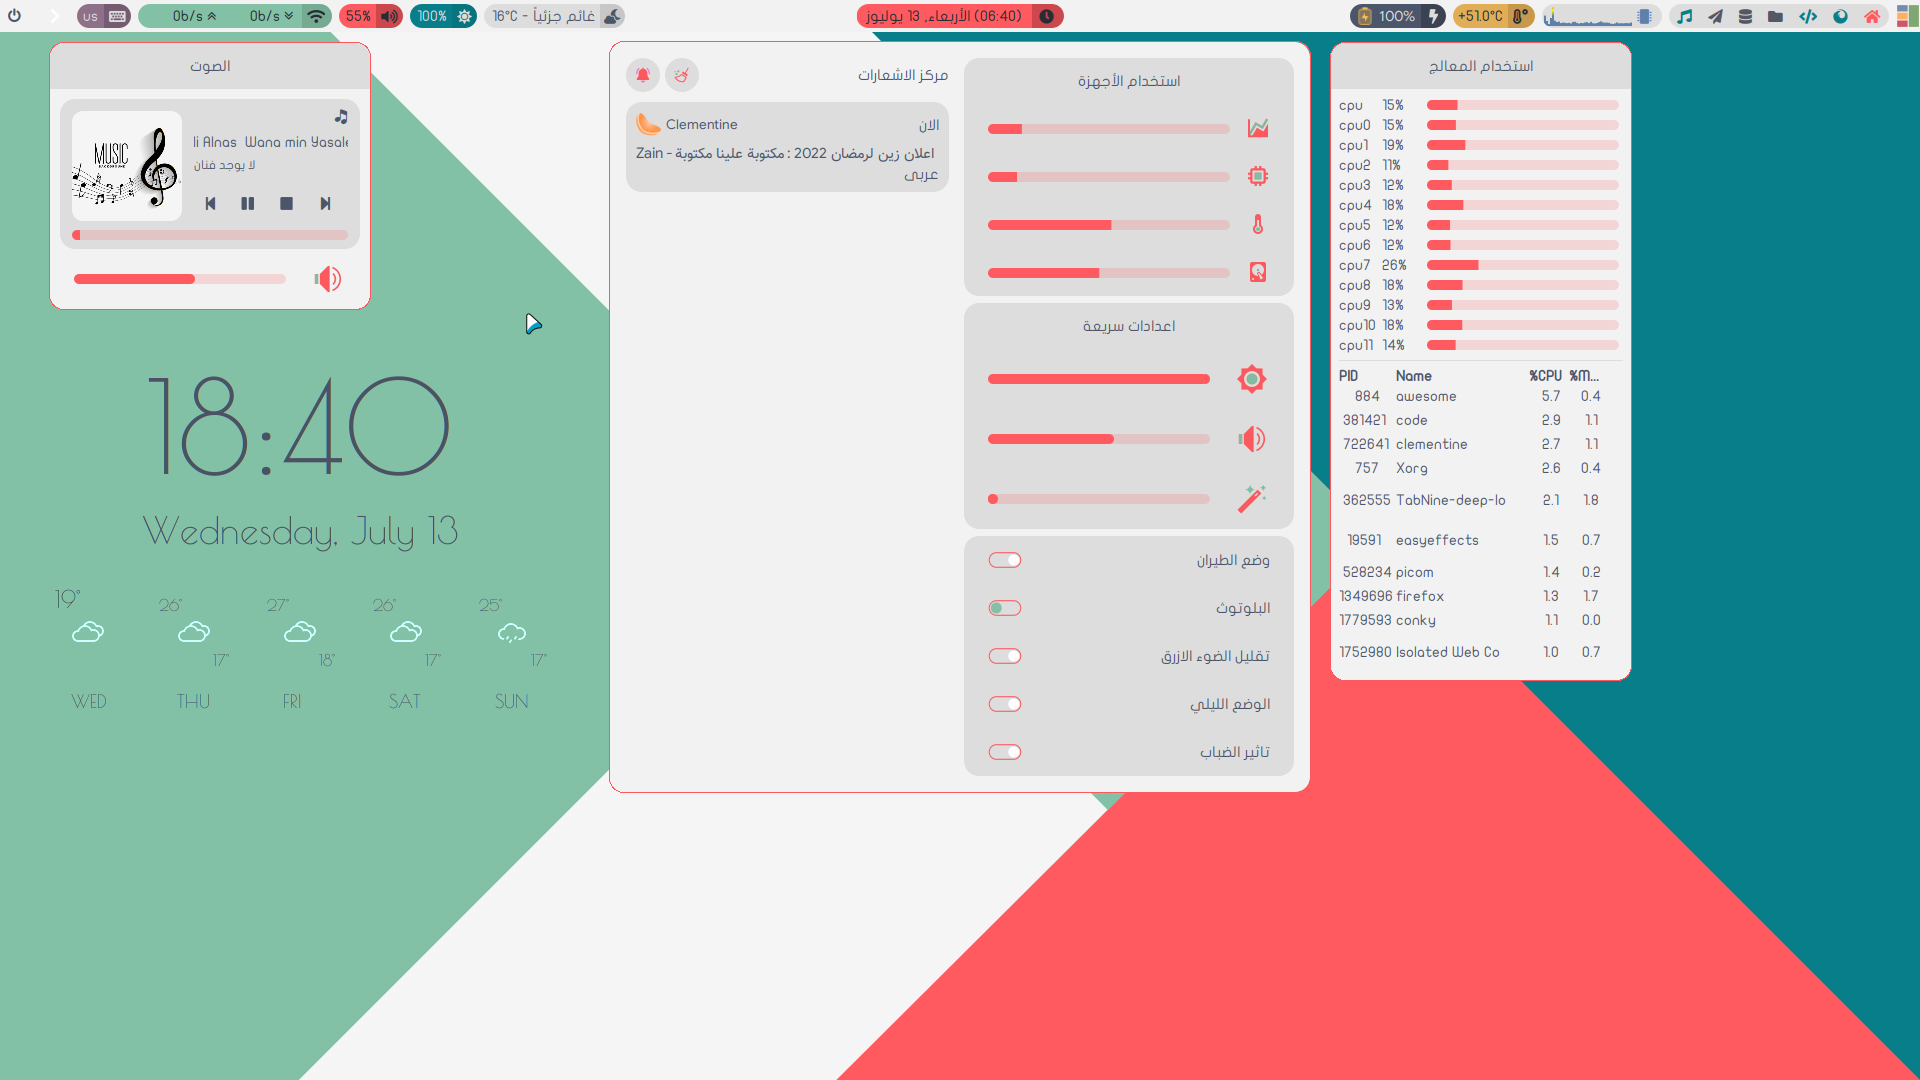
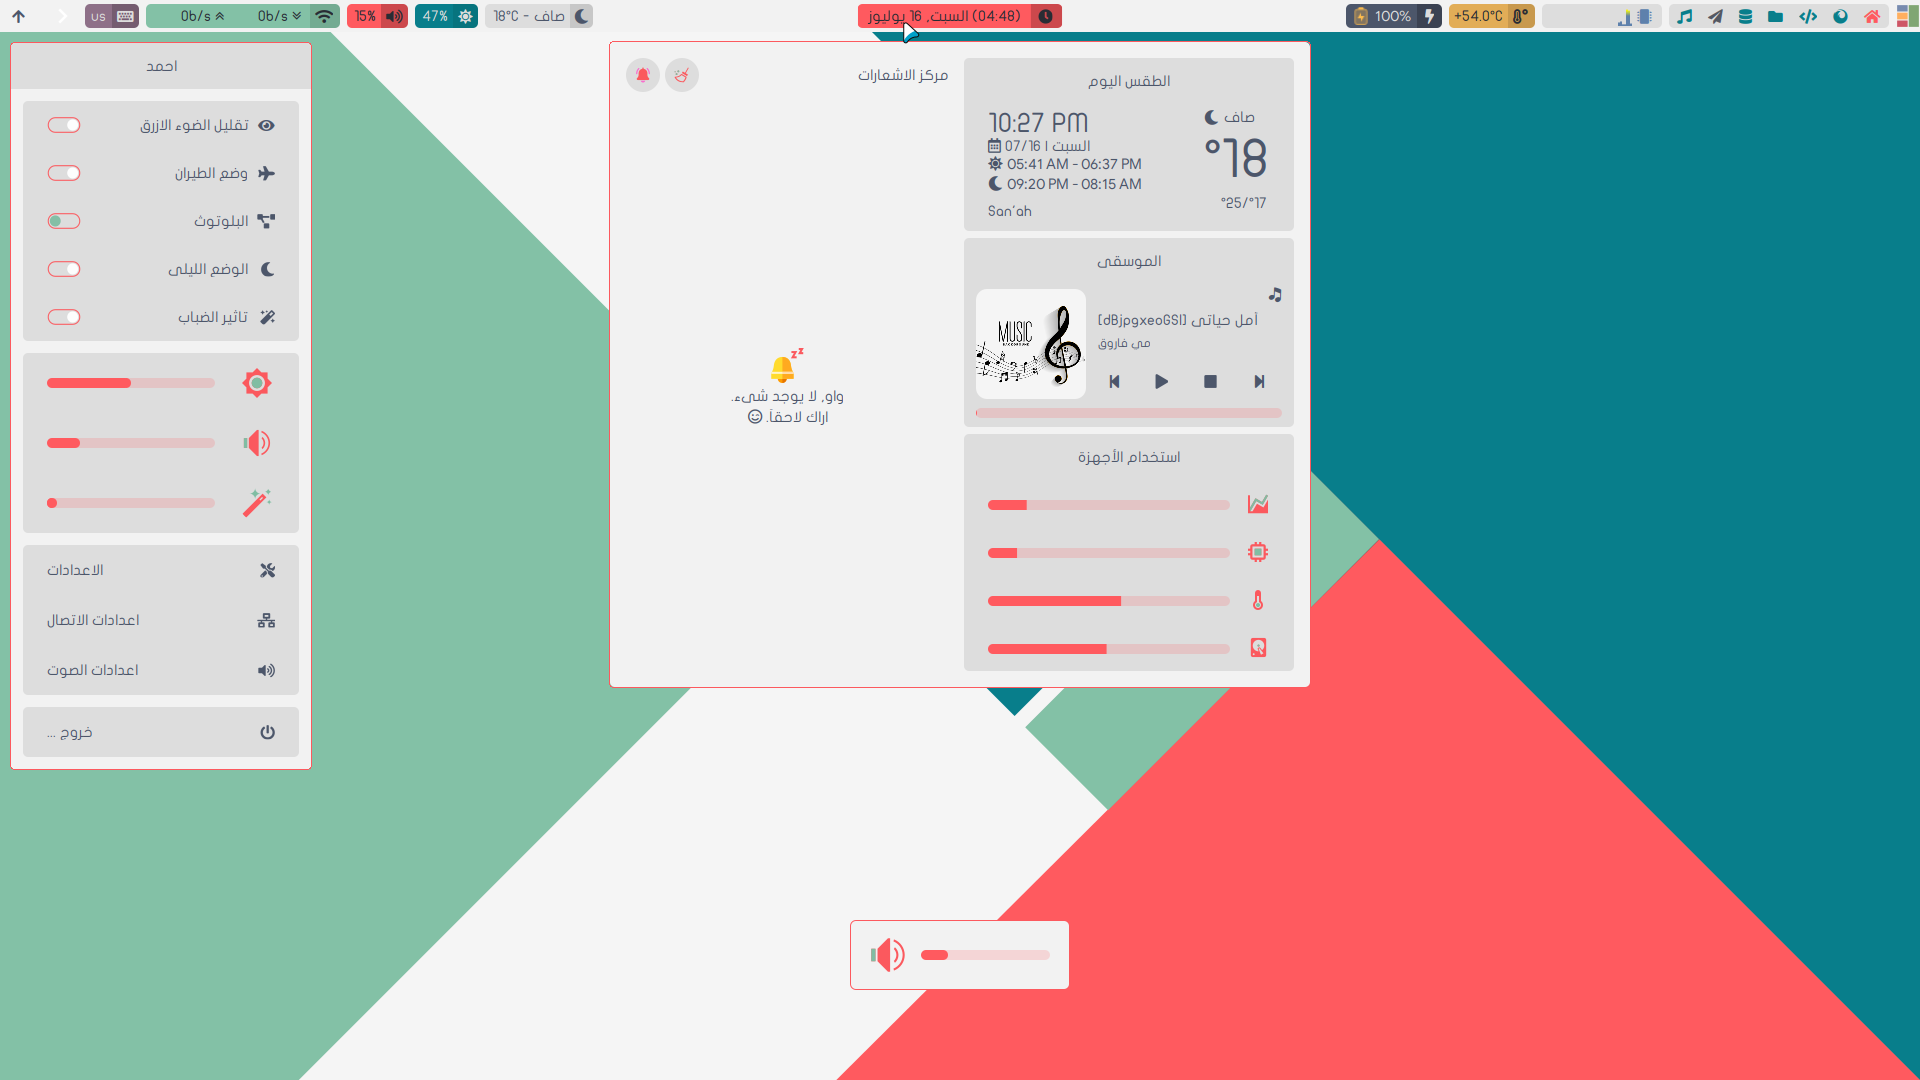
اضافة لقطات جديدة

diff --git a/README.md b/README.md
@@ -38,7 +38,7 @@
 
 ### Installation and usage - التثبيت والاستخدام
 
-`<b>`Arch users - مستخدمي ارش `</b>`
+<b>Arch users - مستخدمي ارش </b>
 
     yay -S base-devel clementine brightnessctl light gimp network-manager-applet telegram-desktop awesome-git rofi xorg-xbacklight xorg-xrandr redshift qt5-gsettings lxappearance konsole xfce4-power-manager xfce4-screensaver blueman xorg-setxkbmap picom-git ark dolphin ffmpegthumbs playerctl lightly-qt kvantum xidlehook polkit-kde-agent ttf-font-awesome-5 conky jq xcolor light-git
 
@@ -75,4 +75,7 @@ Copy files into .config/awesome
 </p>
 <p align='center'>
 	<img alt='screenshot 7' src='https://github.com/AhmedSaadi0/MyAwesomeConfig/blob/master/screenshots/7.png'/>
+</p>
+<p align='center'>
+	<img alt='screenshot 8' src='https://github.com/AhmedSaadi0/MyAwesomeConfig/blob/master/screenshots/8.png'/>
 </p>
